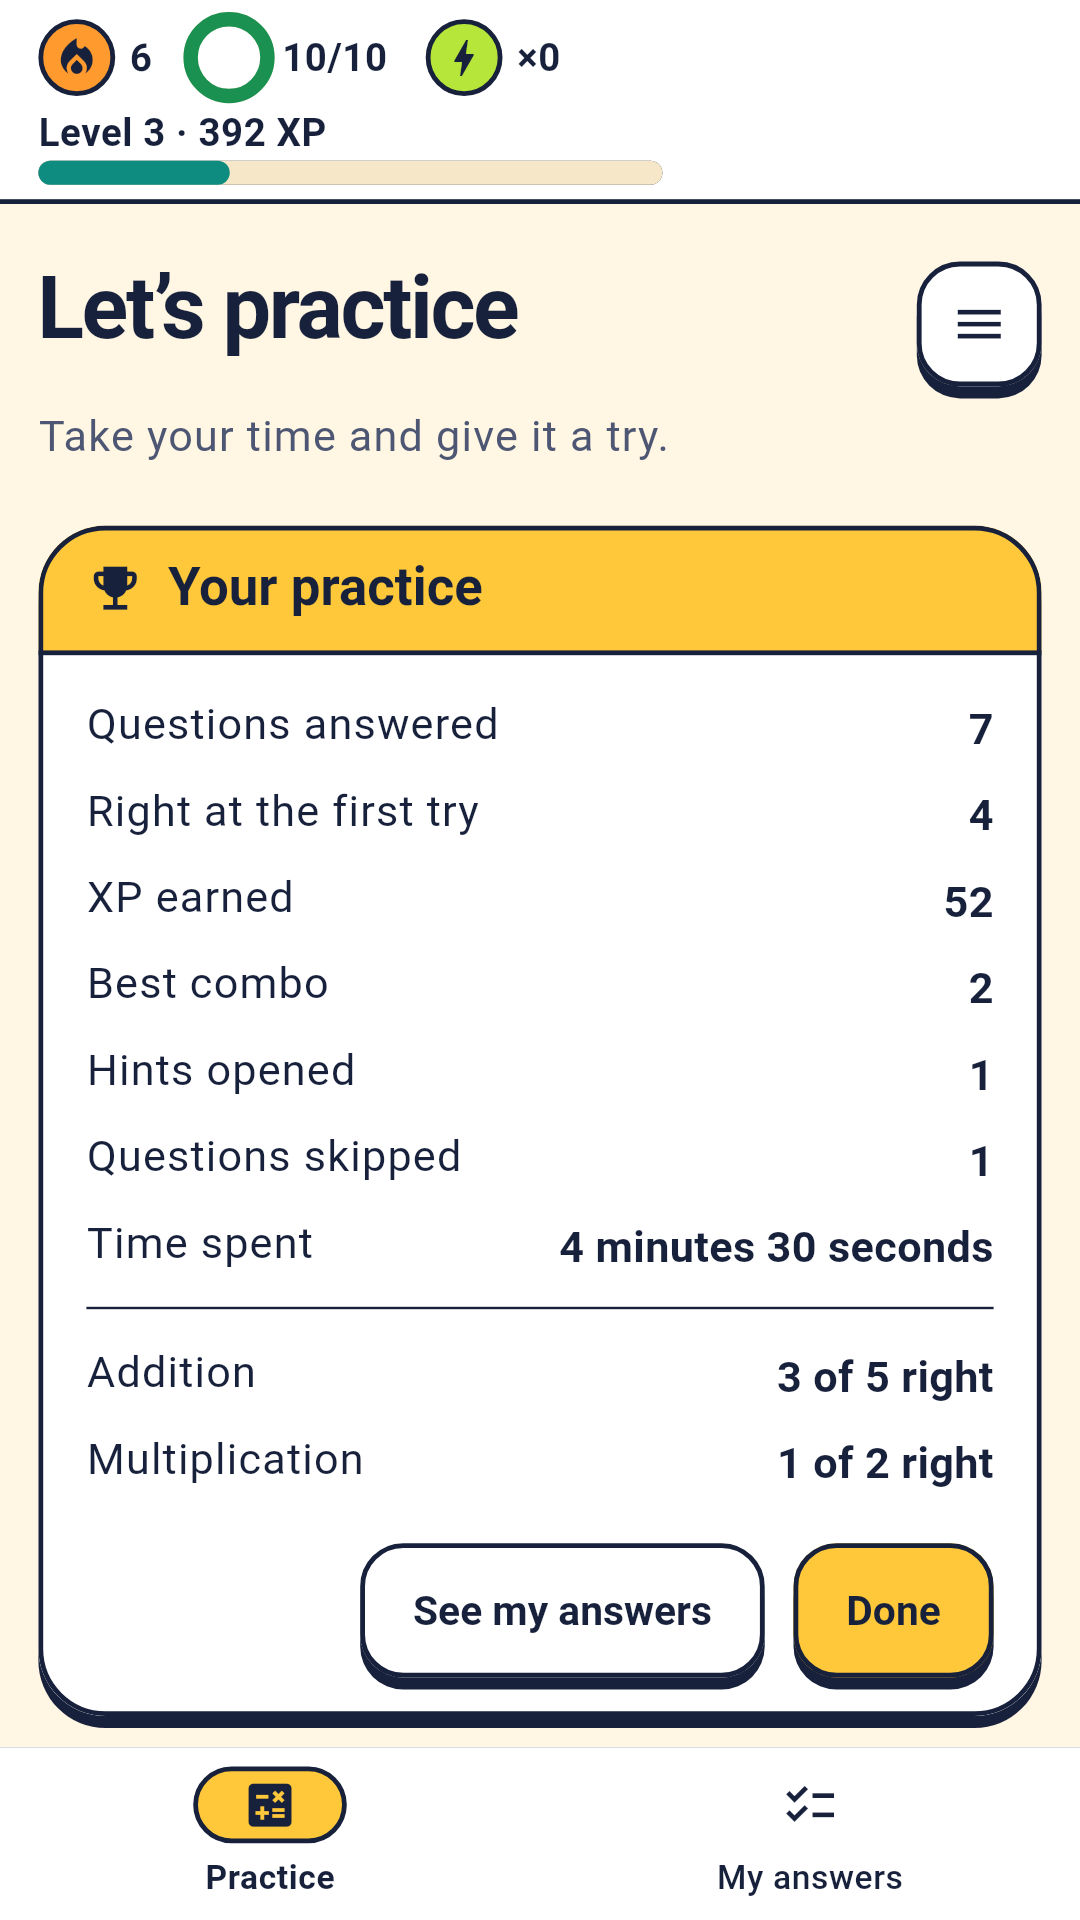
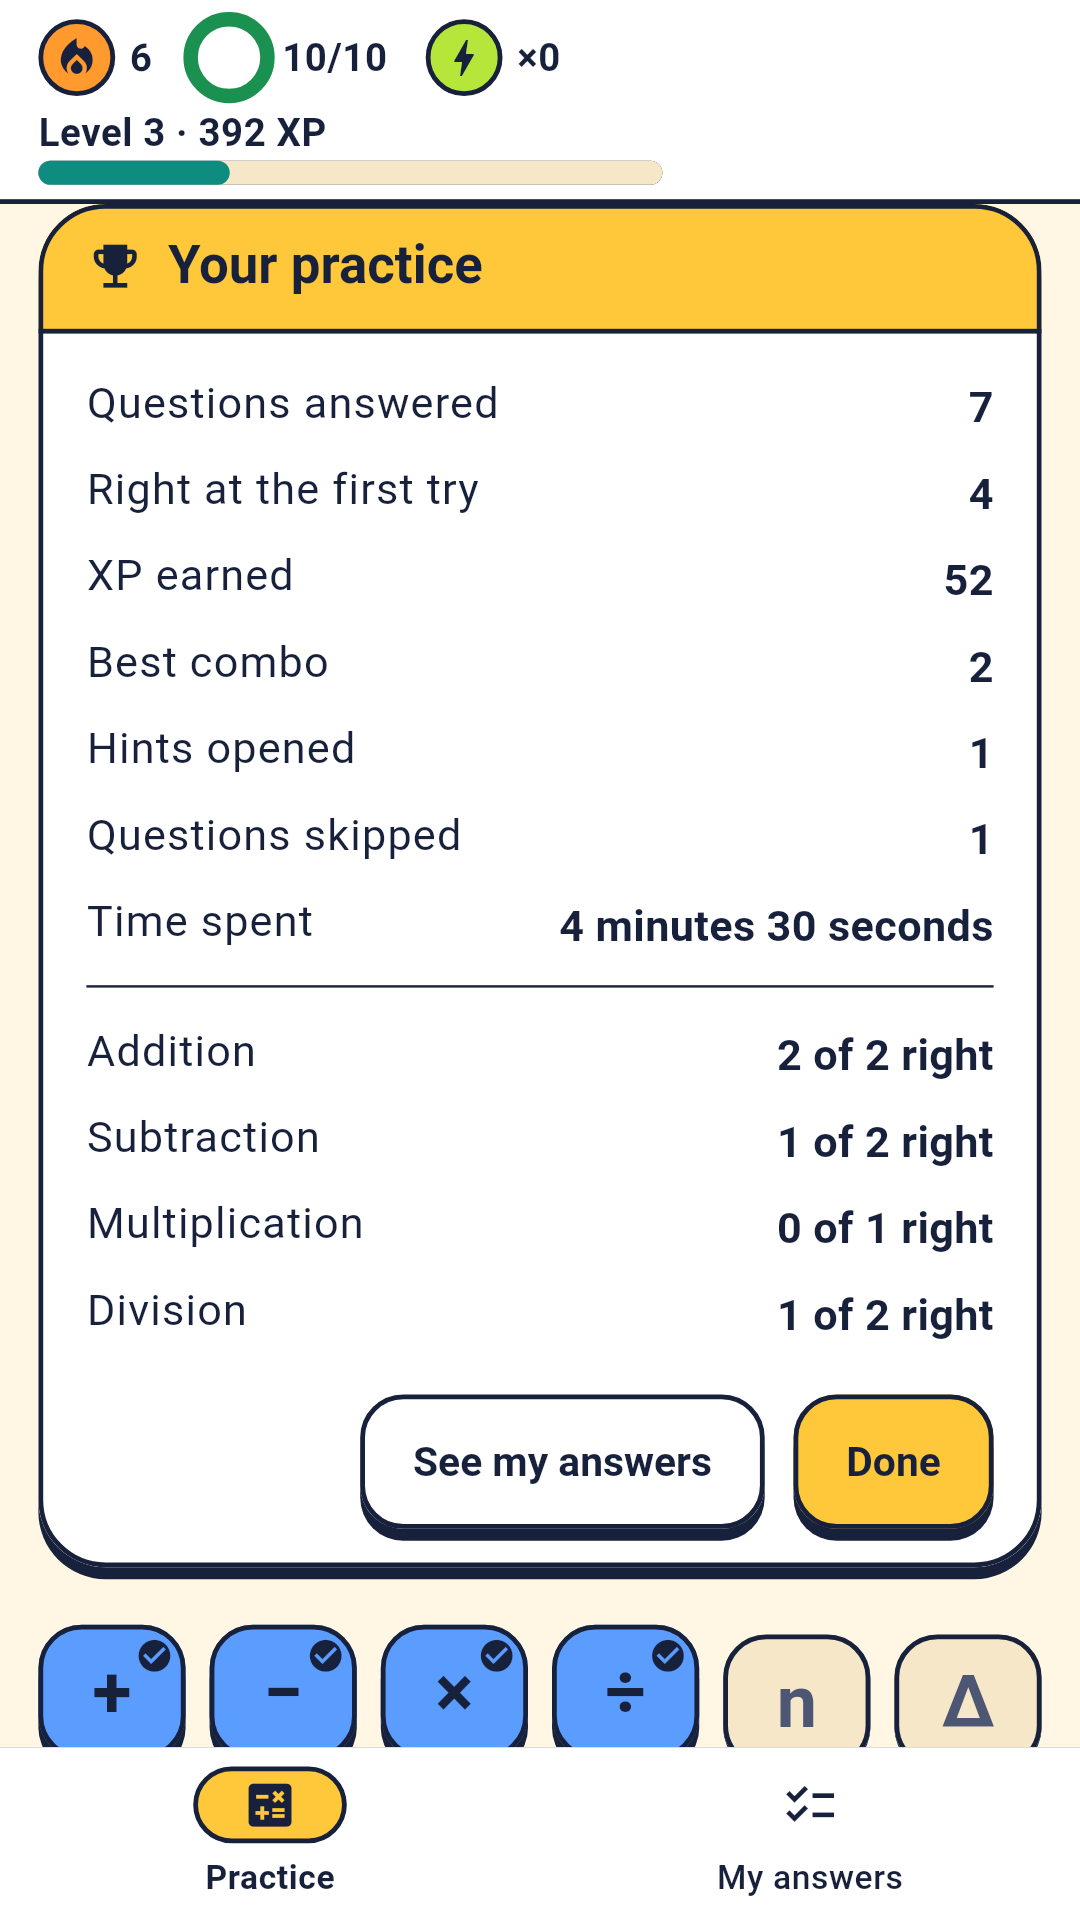
docs: show the whole summary card at the top in every language

diff --git a/app/tool/screenshots_test.dart b/app/tool/screenshots_test.dart
@@ -305,11 +305,9 @@ void main() {
           played = const Duration(minutes: 4, seconds: 30);
           round.endPractice();
           await tester.pumpAndSettle();
-          // Scrolled so the whole card shows, its buttons at the bottom.
-          await Scrollable.ensureVisible(
-            tester.element(find.byKey(roundSummaryDoneKey)),
-            alignment: 1,
-          );
+          // The card at the top, so in every language it shows whole with
+          // its buttons and no heading is cut in half.
+          await tester.ensureVisible(find.byKey(roundSummaryKey));
           await shoot(tester, '$tag-2e-round-summary');
 
           await launch(tester, size, brightness);
